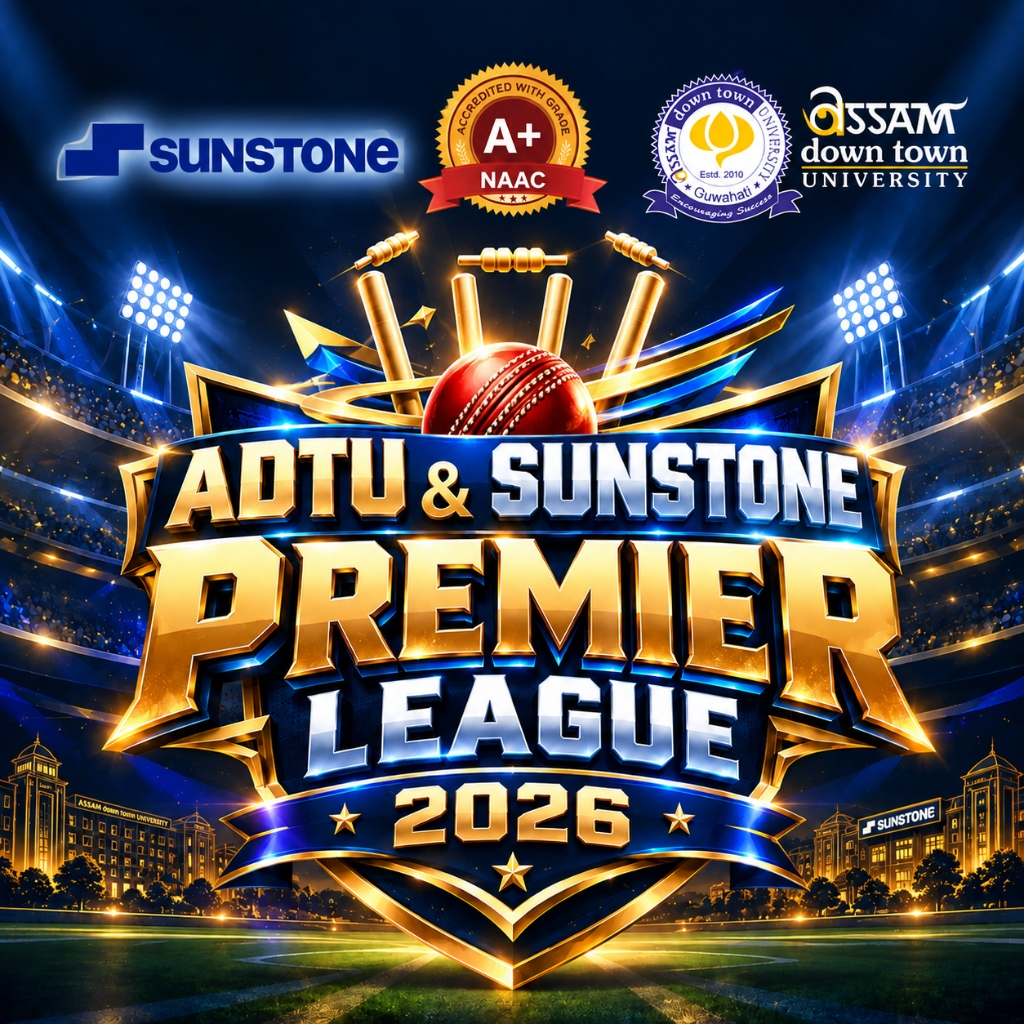
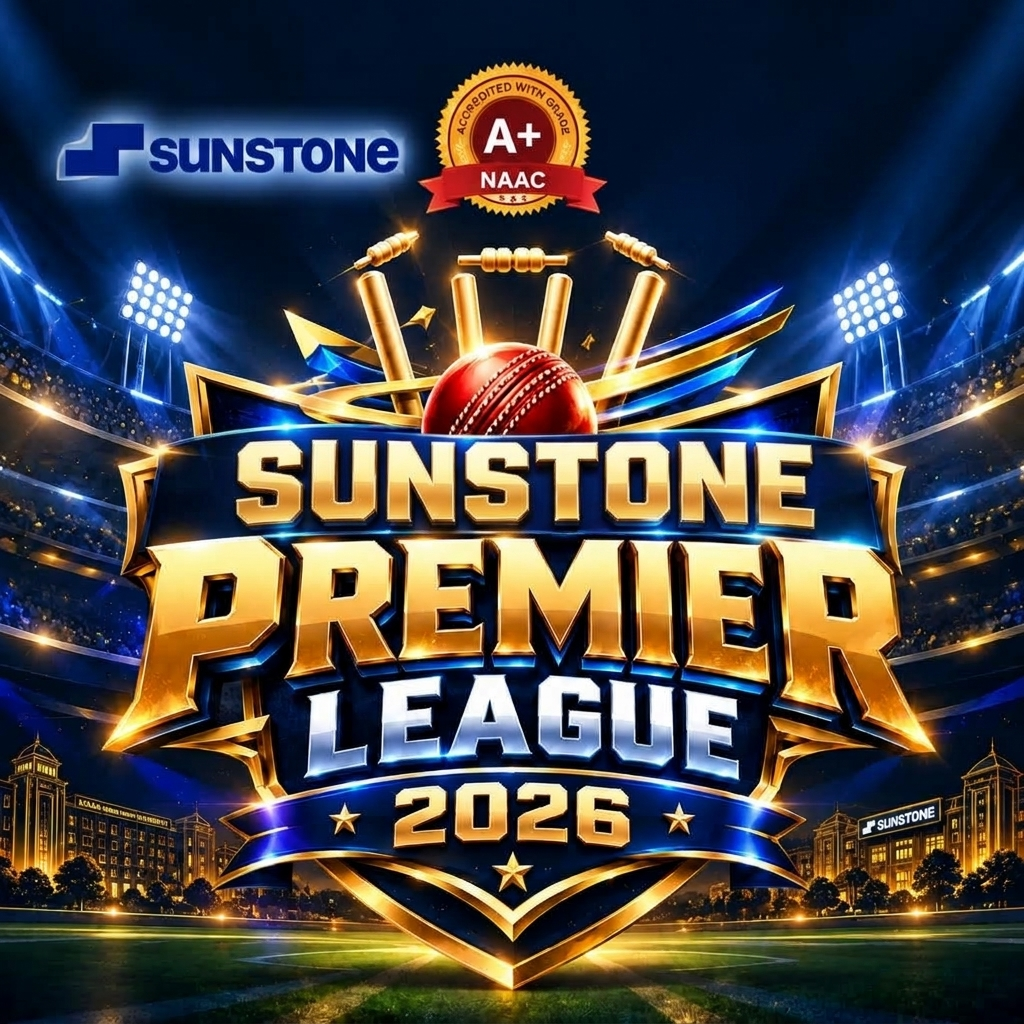
Complete branding change: rebrand tournament exclusively to Sunstone Premier League 2026 across all pages and assets

diff --git a/index.html b/index.html
@@ -4,10 +4,10 @@
 <head>
     <meta charset="UTF-8">
     <meta name="viewport" content="width=device-width, initial-scale=1.0">
-    <title>ADTU & Sunstone Premier League 2026 | Official Tournament Platform</title>
-    <meta name="description" content="Official platform for ADTU & Sunstone Premier League 2026 — Inter-Department Box Cricket Championship. Player registration, real-time live auction, franchise management.">
+    <title>Sunstone Premier League 2026 | Official Tournament Platform</title>
+    <meta name="description" content="Official platform for Sunstone Premier League 2026 — Inter-Department Box Cricket Championship. Player registration, real-time live auction, franchise management.">
     <!-- Favicon & Stylesheet -->
-    <link rel="icon" type="image/png" href="assets/branding/adtu-sunstone-premier-league-2026.png">
+    <link rel="icon" type="image/png" href="assets/branding/sunstone-premier-league-2026.png">
     <link href="./dist/output.css" rel="stylesheet">
     <style>
         body {
@@ -65,7 +65,7 @@
         <!-- Very Subtle Grid -->
         <div class="absolute inset-0 pitch-grid opacity-25"></div>
         <!-- Background Tournament Watermark -->
-        <img src="assets/branding/adtu-sunstone-premier-league-2026.png" alt="" class="tournament-watermark" aria-hidden="true">
+        <img src="assets/branding/sunstone-premier-league-2026.png" alt="" class="tournament-watermark" aria-hidden="true">
     </div>
 
     <!-- ===== NAVIGATION HEADER ===== -->
@@ -77,13 +77,13 @@
             <!-- Brand Identity with Official Logo -->
             <a href="index.html" class="flex items-center gap-3 sm:gap-3.5 group min-w-0">
                 <div class="relative shrink-0">
-                    <img src="assets/branding/adtu-sunstone-premier-league-2026.png" 
-                        alt="ADTU & Sunstone Premier League 2026" 
+                    <img src="assets/branding/sunstone-premier-league-2026.png" 
+                        alt="Sunstone Premier League 2026" 
                         class="h-10 sm:h-12 w-auto object-contain rounded-xl tournament-logo-glow filter drop-shadow-md group-hover:scale-105 transition-transform duration-300">
                 </div>
                 <div class="min-w-0">
                     <div class="flex items-center gap-1.5 sm:gap-2">
-                        <span class="text-[9px] sm:text-[10px] font-black uppercase tracking-[0.16em] text-sky-400 truncate">ADTU & Sunstone</span>
+                        <span class="text-[9px] sm:text-[10px] font-black uppercase tracking-[0.16em] text-sky-400 truncate">Sunstone</span>
                         <span class="text-[8px] sm:text-[9px] uppercase font-black px-1.5 py-0.5 rounded-full bg-amber-400/15 text-amber-300 border border-amber-400/25 tracking-wider hidden sm:inline-block shrink-0">PL 2026</span>
                     </div>
                     <div class="text-xs sm:text-base font-black tracking-tight text-white uppercase leading-none truncate" style="font-family: 'Space Grotesk', sans-serif;">
@@ -175,13 +175,13 @@
                     <span class="w-2.5 h-2.5 rounded-full bg-sky-400 animate-ping"></span>
                     <span class="text-[11px] font-black uppercase tracking-[0.16em] text-sky-300">Official Tournament</span>
                     <span class="text-slate-600">·</span>
-                    <span class="text-[11px] text-amber-400 font-bold uppercase tracking-wider">ADTU & Sunstone Premier League 2026</span>
+                    <span class="text-[11px] text-amber-400 font-bold uppercase tracking-wider">Sunstone Premier League 2026</span>
                 </div>
 
                 <!-- Hero Cinematic Titles -->
                 <div class="stagger-2 space-y-2">
                     <div class="text-xs sm:text-sm font-black uppercase tracking-[0.3em] text-amber-400 flex items-center gap-2">
-                        <span>🏆</span> ASSAM DOWN TOWN UNIVERSITY × SUNSTONE
+                        <span>🏆</span> SUNSTONE PREMIER LEAGUE 2026
                     </div>
                     <h1 class="text-4xl sm:text-6xl lg:text-7xl font-black tracking-tight uppercase leading-[0.95]" style="font-family: 'Space Grotesk', sans-serif;">
                         <span class="text-white">The Game</span><br>
@@ -200,7 +200,7 @@
                 </p>
 
                 <p class="stagger-3 text-slate-400 text-sm sm:text-base lg:text-lg max-w-xl leading-relaxed">
-                    Welcome to the official arena of <strong class="text-white font-semibold">ADTU & Sunstone Premier League 2026</strong>. Register your athlete profile, earn clearance from match officials, and enter the official player auction pool.
+                    Welcome to the official arena of <strong class="text-white font-semibold">Sunstone Premier League 2026</strong>. Register your athlete profile, earn clearance from match officials, and enter the official player auction pool.
                 </p>
 
                 <!-- Hero CTA Buttons -->
@@ -255,8 +255,8 @@
                     
                     <!-- Official Logo Image -->
                     <div class="relative z-10 flex justify-center items-center py-2">
-                        <img src="assets/branding/adtu-sunstone-premier-league-2026.png"
-                             alt="ADTU & Sunstone Premier League 2026 Official Logo"
+                        <img src="assets/branding/sunstone-premier-league-2026.png"
+                             alt="Sunstone Premier League 2026 Official Logo"
                              class="w-full max-h-[300px] object-contain drop-shadow-[0_20px_35px_rgba(0,0,0,0.8)] logo-entrance hover:brightness-105 transition-all duration-300">
                     </div>
 
@@ -264,7 +264,7 @@
                         <div class="inline-flex items-center gap-1.5 px-3 py-1 rounded-full bg-amber-500/10 border border-amber-500/25">
                             <span class="text-[10px] font-black tracking-[0.2em] uppercase text-amber-400">Official Tournament Emblem</span>
                         </div>
-                        <p class="text-[11px] text-slate-400 font-mono tracking-wide mt-1">Assam down town University × Sunstone</p>
+                        <p class="text-[11px] text-slate-400 font-mono tracking-wide mt-1">Sunstone Premier League 2026</p>
                     </div>
                 </div>
             </div>
@@ -276,13 +276,13 @@
 
         <!-- Tournament Identity Header (Requirement 4) -->
         <div class="mb-8 p-6 rounded-2xl bg-gradient-to-r from-[#0B172E]/90 via-[#0F2247]/75 to-[#0B172E]/90 border border-sky-500/30 shadow-xl backdrop-blur-md flex flex-col sm:flex-row items-center gap-6 text-center sm:text-left">
-            <img src="assets/branding/adtu-sunstone-premier-league-2026.png" 
-                 alt="ADTU & Sunstone Premier League 2026" 
+            <img src="assets/branding/sunstone-premier-league-2026.png" 
+                 alt="Sunstone Premier League 2026" 
                  class="h-20 sm:h-24 w-auto object-contain logo-entrance tournament-logo-glow flex-shrink-0">
             <div class="space-y-1">
                 <div class="text-[10px] font-black uppercase tracking-[0.25em] text-amber-400">Official Player Portal</div>
                 <h2 class="text-2xl sm:text-3xl font-black text-white tracking-tight uppercase" style="font-family: 'Space Grotesk', sans-serif;">
-                    ADTU & Sunstone Premier League 2026
+                    Sunstone Premier League 2026
                 </h2>
                 <p class="text-xs text-sky-300 font-mono tracking-wider">Tournament Clearance & Player HQ Ledger</p>
             </div>
@@ -492,10 +492,10 @@
 
                 <!-- Auth Modal Header (Requirement 3 & 4) -->
                 <div class="p-6 pb-0 text-center border-b border-sky-950/60 pb-5 bg-[#08111F]/40 flex flex-col items-center">
-                    <img src="assets/branding/adtu-sunstone-premier-league-2026.png" 
-                         alt="ADTU & Sunstone Premier League 2026" 
+                    <img src="assets/branding/sunstone-premier-league-2026.png" 
+                         alt="Sunstone Premier League 2026" 
                          class="h-16 sm:h-20 w-auto object-contain logo-entrance tournament-logo-glow mb-2">
-                    <div class="text-[10px] font-black uppercase tracking-[0.2em] text-amber-400 mb-0.5">ADTU & Sunstone Premier League 2026</div>
+                    <div class="text-[10px] font-black uppercase tracking-[0.2em] text-amber-400 mb-0.5">Sunstone Premier League 2026</div>
                     <h2 class="text-base sm:text-lg font-black uppercase text-white tracking-tight" style="font-family: 'Space Grotesk', sans-serif;">Athlete Access Portal</h2>
                 </div>
 

diff --git a/team/index.html b/team/index.html
@@ -4,10 +4,10 @@
 <head>
     <meta charset="UTF-8">
     <meta name="viewport" content="width=device-width, initial-scale=1.0">
-    <title>Franchise Command Center — ADTU & Sunstone Premier League 2026</title>
-    <meta name="description" content="Franchise team management dashboard for ADTU & Sunstone Premier League 2026 Box Cricket Tournament.">
+    <title>Franchise Command Center — Sunstone Premier League 2026</title>
+    <meta name="description" content="Franchise team management dashboard for Sunstone Premier League 2026 Box Cricket Tournament.">
     <!-- Favicon & Stylesheet -->
-    <link rel="icon" type="image/png" href="../assets/branding/adtu-sunstone-premier-league-2026.png">
+    <link rel="icon" type="image/png" href="../assets/branding/sunstone-premier-league-2026.png">
     <link href="../dist/output.css" rel="stylesheet">
     <style>
         body {
@@ -27,7 +27,7 @@
 <body class="bg-[#050816] text-slate-100 min-h-screen flex flex-col antialiased selection:bg-sky-500 selection:text-slate-950 overflow-x-hidden">
 
     <!-- Subtle Background Watermark (Requirement 9) -->
-    <img src="../assets/branding/adtu-sunstone-premier-league-2026.png" 
+    <img src="../assets/branding/sunstone-premier-league-2026.png" 
          alt="" 
          aria-hidden="true" 
          class="tournament-watermark">
@@ -55,12 +55,12 @@
             <div class="flex items-center gap-3 sm:gap-4 min-w-0">
                 <!-- Tournament Branding -->
                 <a href="../index.html" class="flex items-center gap-2 group shrink-0" title="Return to Tournament Portal">
-                    <img src="../assets/branding/adtu-sunstone-premier-league-2026.png"
-                         alt="ADTU & Sunstone Premier League 2026"
+                    <img src="../assets/branding/sunstone-premier-league-2026.png"
+                         alt="Sunstone Premier League 2026"
                          class="h-10 sm:h-12 w-auto object-contain logo-entrance tournament-logo-glow">
                     <div class="hidden md:block">
                         <div class="text-[9px] font-black tracking-[0.14em] text-amber-400 uppercase leading-none">Tournament</div>
-                        <div class="text-xs font-black tracking-tight text-white uppercase mt-0.5 leading-none" style="font-family: 'Space Grotesk', sans-serif;">ADTU & Sunstone PL 2026</div>
+                        <div class="text-xs font-black tracking-tight text-white uppercase mt-0.5 leading-none" style="font-family: 'Space Grotesk', sans-serif;">Sunstone PL 2026</div>
                     </div>
                 </a>
 
@@ -108,13 +108,13 @@
         <!-- Tournament Identity Section (Requirement 6) -->
         <div class="p-4 sm:p-5 rounded-2xl bg-gradient-to-r from-[#0B172E]/90 via-[#0F2247]/75 to-[#0B172E]/90 border border-sky-500/25 shadow-xl backdrop-blur-md flex flex-col sm:flex-row items-center justify-between gap-4">
             <div class="flex items-center gap-4">
-                <img src="../assets/branding/adtu-sunstone-premier-league-2026.png" 
-                     alt="ADTU & Sunstone Premier League 2026" 
+                <img src="../assets/branding/sunstone-premier-league-2026.png" 
+                     alt="Sunstone Premier League 2026" 
                      class="h-12 sm:h-14 w-auto object-contain logo-entrance tournament-logo-glow shrink-0">
                 <div>
                     <div class="text-[9px] font-black uppercase tracking-[0.2em] text-amber-400">Official Tournament Hierarchy</div>
                     <div class="text-sm sm:text-base font-black text-white uppercase tracking-tight" style="font-family: 'Space Grotesk', sans-serif;">
-                        ADTU & Sunstone Premier League 2026
+                        Sunstone Premier League 2026
                     </div>
                     <div class="text-[11px] text-sky-300 font-mono">Franchise Command Center & Live Squad Roster</div>
                 </div>

diff --git a/admin/index.html b/admin/index.html
@@ -4,10 +4,10 @@
 <head>
     <meta charset="UTF-8">
     <meta name="viewport" content="width=device-width, initial-scale=1.0">
-    <title>Admin Command Center — ADTU & Sunstone Premier League 2026</title>
-    <meta name="description" content="Tournament operations control room for ADTU & Sunstone Premier League 2026. Manage athletes, clearances, base prices, and live franchise auction.">
+    <title>Admin Command Center — Sunstone Premier League 2026</title>
+    <meta name="description" content="Tournament operations control room for Sunstone Premier League 2026. Manage athletes, clearances, base prices, and live franchise auction.">
     <!-- Favicon & Stylesheet -->
-    <link rel="icon" type="image/png" href="../assets/branding/adtu-sunstone-premier-league-2026.png">
+    <link rel="icon" type="image/png" href="../assets/branding/sunstone-premier-league-2026.png">
     <link href="../dist/output.css" rel="stylesheet">
     <style>
         body {
@@ -70,7 +70,7 @@
 <body class="bg-[#050816] text-slate-100 min-h-screen selection:bg-sky-500 selection:text-slate-950 relative antialiased overflow-x-hidden">
 
     <!-- Subtle Background Watermark (Requirement 9) -->
-    <img src="../assets/branding/adtu-sunstone-premier-league-2026.png" 
+    <img src="../assets/branding/sunstone-premier-league-2026.png" 
          alt="" 
          aria-hidden="true" 
          class="tournament-watermark">
@@ -97,12 +97,12 @@
             <!-- Brand & Badge (Requirement 5) -->
             <div class="flex items-center gap-2 sm:gap-4 min-w-0">
                 <a href="../index.html" class="flex items-center gap-2.5 sm:gap-3 group min-w-0" title="Return to Public Portal">
-                    <img src="../assets/branding/adtu-sunstone-premier-league-2026.png"
-                         alt="ADTU & Sunstone Premier League 2026"
+                    <img src="../assets/branding/sunstone-premier-league-2026.png"
+                         alt="Sunstone Premier League 2026"
                          class="h-10 sm:h-12 w-auto object-contain logo-entrance tournament-logo-glow shrink-0">
                     <div class="min-w-0">
                         <div class="flex items-center gap-1.5 sm:gap-2">
-                            <span class="text-[9px] sm:text-[10px] font-black tracking-[0.12em] text-amber-400 uppercase truncate">ADTU & Sunstone PL 2026</span>
+                            <span class="text-[9px] sm:text-[10px] font-black tracking-[0.12em] text-amber-400 uppercase truncate">Sunstone PL 2026</span>
                             <span class="text-[8px] sm:text-[9px] uppercase font-black px-1.5 py-0.5 rounded-full bg-rose-500/15 text-rose-400 border border-rose-500/25 tracking-wider shrink-0">Admin</span>
                         </div>
                         <h1 class="text-xs sm:text-sm md:text-base font-black tracking-tight text-white uppercase leading-none truncate" style="font-family: 'Space Grotesk', sans-serif;">Tournament Control HQ</h1>

diff --git a/team/login.html b/team/login.html
@@ -4,10 +4,10 @@
 <head>
     <meta charset="UTF-8">
     <meta name="viewport" content="width=device-width, initial-scale=1.0">
-    <title>Franchise Owner Portal — ADTU & Sunstone Premier League 2026</title>
-    <meta name="description" content="Franchise owner sign-in and registration for ADTU & Sunstone Premier League 2026 Box Cricket Tournament.">
+    <title>Franchise Owner Portal — Sunstone Premier League 2026</title>
+    <meta name="description" content="Franchise owner sign-in and registration for Sunstone Premier League 2026 Box Cricket Tournament.">
     <!-- Favicon & Stylesheet -->
-    <link rel="icon" type="image/png" href="../assets/branding/adtu-sunstone-premier-league-2026.png">
+    <link rel="icon" type="image/png" href="../assets/branding/sunstone-premier-league-2026.png">
     <link href="../dist/output.css" rel="stylesheet">
     <style>
         body {
@@ -33,7 +33,7 @@
 <body class="bg-[#050816] text-slate-100 min-h-screen flex items-center justify-center p-4 relative antialiased overflow-x-hidden">
 
     <!-- Subtle Background Watermark (Requirement 9) -->
-    <img src="../assets/branding/adtu-sunstone-premier-league-2026.png" 
+    <img src="../assets/branding/sunstone-premier-league-2026.png" 
          alt="" 
          aria-hidden="true" 
          class="tournament-watermark">
@@ -57,8 +57,8 @@
 
         <!-- Prominent Tournament Branding Above Login Card (Requirement 3) -->
         <div class="text-center mb-6 flex flex-col items-center">
-            <img src="../assets/branding/adtu-sunstone-premier-league-2026.png"
-                 alt="ADTU & Sunstone Premier League 2026 Official Logo"
+            <img src="../assets/branding/sunstone-premier-league-2026.png"
+                 alt="Sunstone Premier League 2026 Official Logo"
                  class="h-24 sm:h-28 w-auto object-contain logo-entrance tournament-logo-glow mb-3">
             <div class="inline-flex items-center gap-2 px-3.5 py-1.5 rounded-full bg-[#08111F]/90 border border-amber-400/25 text-[10px] font-black uppercase tracking-[0.18em] text-amber-400 backdrop-blur-md shadow-lg shadow-amber-400/5">
                 <span class="text-amber-400">👑</span>
@@ -75,7 +75,7 @@
             <div class="p-8 sm:p-10">
                 <!-- Brand Header -->
                 <div class="text-center mb-7">
-                    <div class="text-[10px] font-black uppercase tracking-[0.2em] text-sky-400 mb-1">ADTU & Sunstone Premier League 2026</div>
+                    <div class="text-[10px] font-black uppercase tracking-[0.2em] text-sky-400 mb-1">Sunstone Premier League 2026</div>
                     <h1 class="text-2xl sm:text-3xl font-black uppercase text-white tracking-tight" style="font-family: 'Space Grotesk', sans-serif;">
                         Franchise Owner HQ
                     </h1>

diff --git a/admin/login.html b/admin/login.html
@@ -4,10 +4,10 @@
 <head>
     <meta charset="UTF-8">
     <meta name="viewport" content="width=device-width, initial-scale=1.0">
-    <title>Admin Login — ADTU & Sunstone Premier League 2026</title>
-    <meta name="description" content="Admin command center access for ADTU & Sunstone Premier League 2026 tournament coordinators.">
+    <title>Admin Login — Sunstone Premier League 2026</title>
+    <meta name="description" content="Admin command center access for Sunstone Premier League 2026 tournament coordinators.">
     <!-- Favicon & Stylesheet -->
-    <link rel="icon" type="image/png" href="../assets/branding/adtu-sunstone-premier-league-2026.png">
+    <link rel="icon" type="image/png" href="../assets/branding/sunstone-premier-league-2026.png">
     <link href="../dist/output.css" rel="stylesheet">
     <style>
         body {
@@ -53,7 +53,7 @@
 <body class="bg-[#050816] text-slate-100 min-h-screen flex items-center justify-center p-4 relative antialiased overflow-hidden">
 
     <!-- Subtle Background Watermark (Requirement 9) -->
-    <img src="../assets/branding/adtu-sunstone-premier-league-2026.png" 
+    <img src="../assets/branding/sunstone-premier-league-2026.png" 
          alt="" 
          aria-hidden="true" 
          class="tournament-watermark">
@@ -76,8 +76,8 @@
 
         <!-- Prominent Tournament Branding Above Login Card (Requirement 3) -->
         <div class="text-center mb-6 flex flex-col items-center">
-            <img src="../assets/branding/adtu-sunstone-premier-league-2026.png"
-                 alt="ADTU & Sunstone Premier League 2026 Official Logo"
+            <img src="../assets/branding/sunstone-premier-league-2026.png"
+                 alt="Sunstone Premier League 2026 Official Logo"
                  class="h-24 sm:h-28 w-auto object-contain logo-entrance tournament-logo-glow mb-3">
             <div class="inline-flex items-center gap-2 px-3.5 py-1.5 rounded-full bg-[#08111F]/90 border border-sky-500/25 text-[10px] font-black uppercase tracking-[0.18em] text-amber-400 backdrop-blur-md shadow-lg shadow-sky-500/5">
                 <span class="w-1.5 h-1.5 rounded-full bg-rose-400 animate-pulse"></span>
@@ -90,7 +90,7 @@
 
             <!-- Header Brand -->
             <div class="text-center mb-8">
-                <div class="text-[10px] font-black uppercase tracking-[0.2em] text-sky-400 mb-1">ADTU & Sunstone Premier League 2026</div>
+                <div class="text-[10px] font-black uppercase tracking-[0.2em] text-sky-400 mb-1">Sunstone Premier League 2026</div>
                 <h1 class="text-2xl sm:text-3xl font-black uppercase text-white tracking-tight" style="font-family: 'Space Grotesk', sans-serif;">
                     Tournament HQ
                 </h1>
